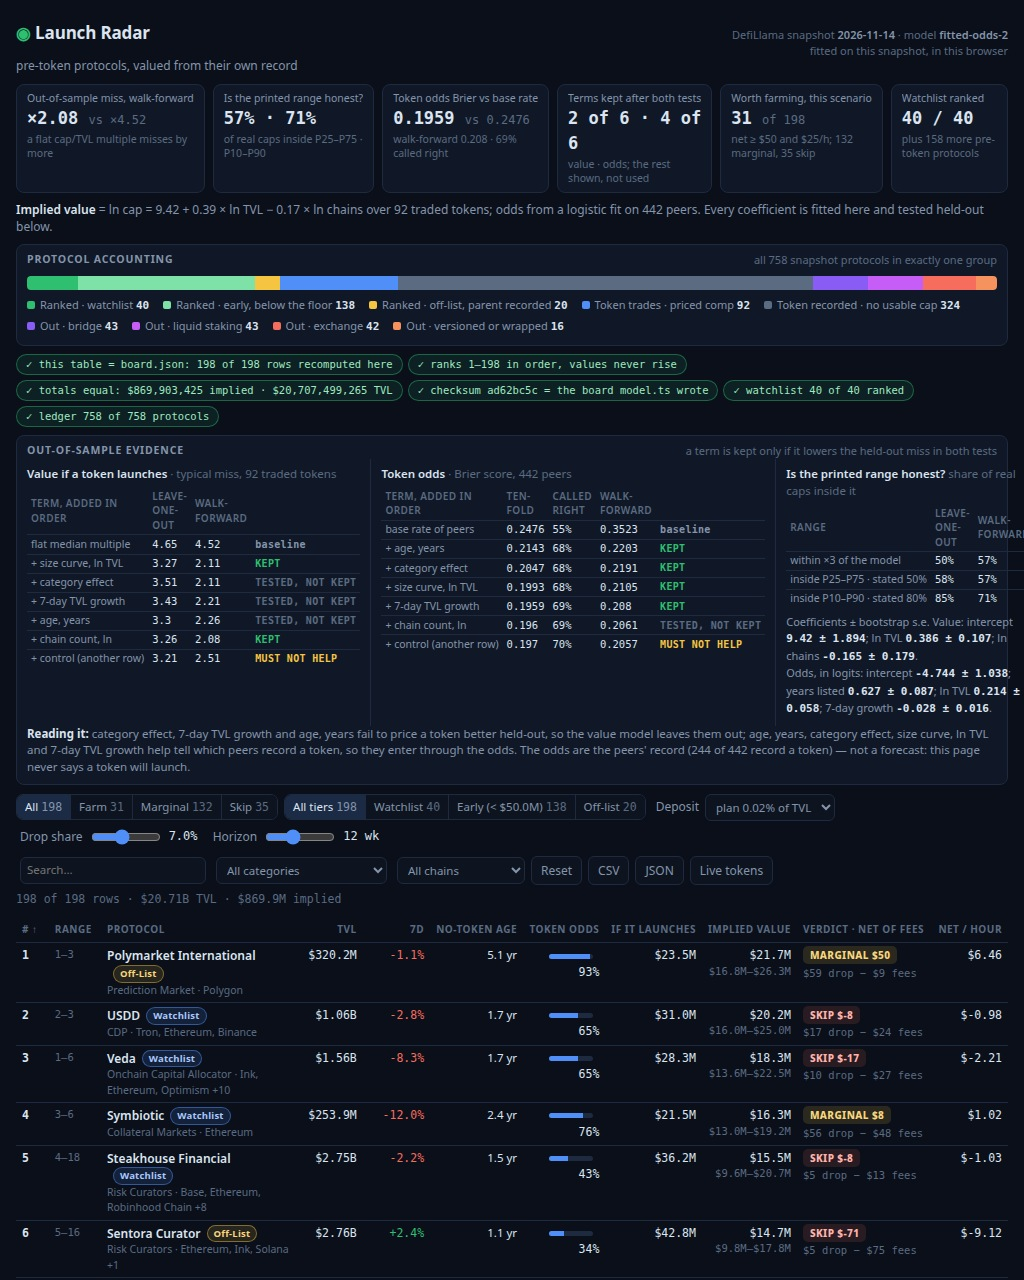
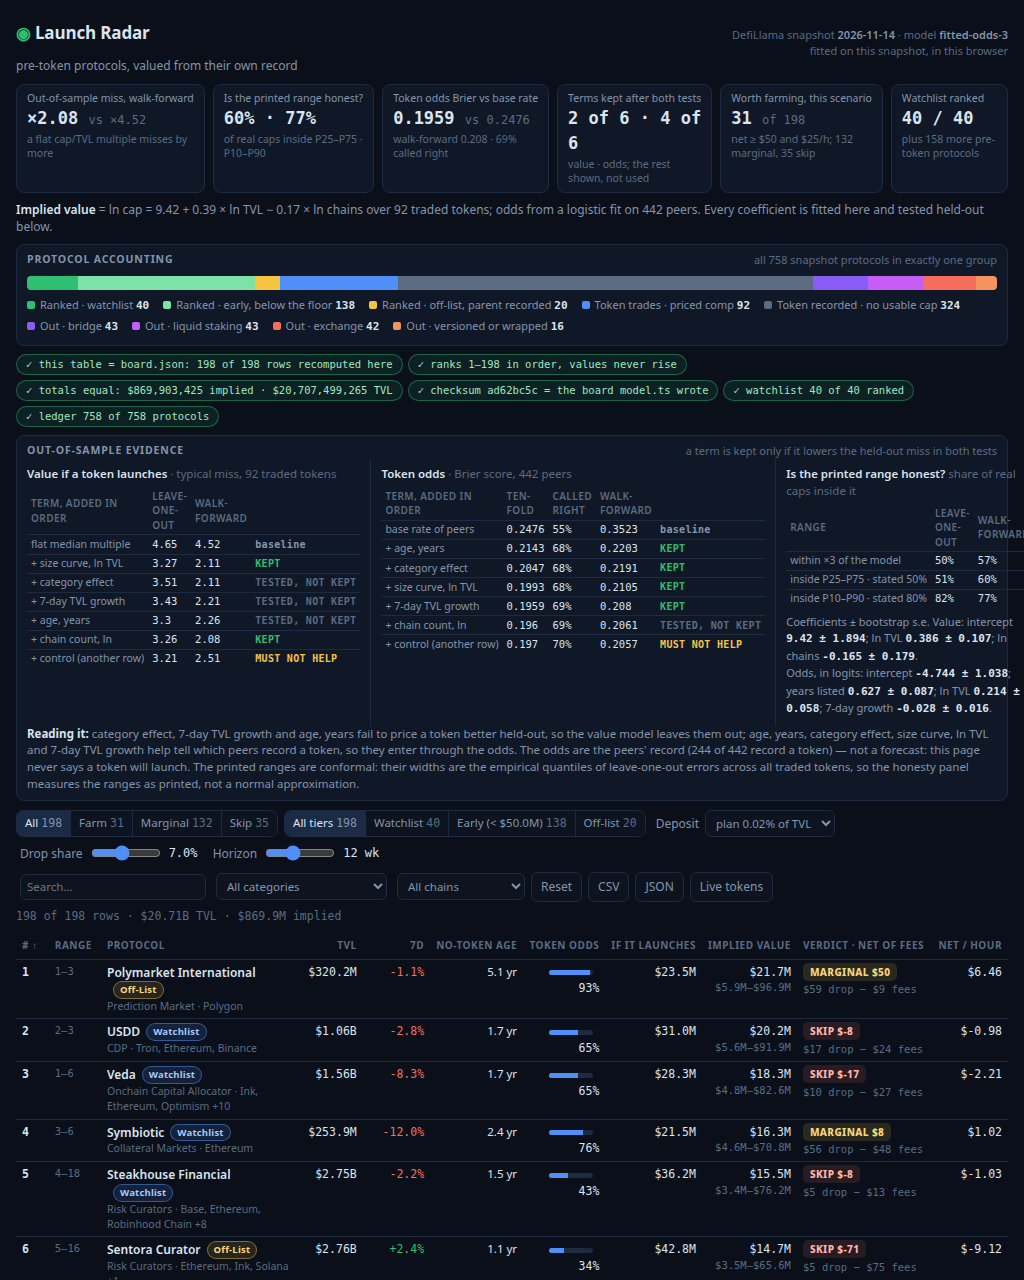
Conformal printed ranges: empirical LOO quantiles replace normal bands
Printed P25-P75 ranges were bootstrap-only, so the honesty panel measured
normal bands, not what readers see: 85% LOO but 71% walk-forward at the
stated 80%. Ranges are now split-conformal: bootstrap spread widened by the
empirical quantiles of leave-one-out errors across all 92 traded tokens
(q10 -2.50, q25 -1.04, q75 +1.30, q90 +2.34), and the honesty panel measures
the printed ranges themselves. Honesty 57%/71% -> 60%/77% walk-forward
(rank 1 reads 57%/76%); point predictions, ranks, verdicts, checksum all
identical. MODEL_VERSION fitted-odds-3. Screenshots retaken.

diff --git a/lib/model.ts b/lib/model.ts
@@ -47,7 +47,7 @@ export interface Snapshot {
 }
 
 /** The model's version label: the dashboard names it and board.json carries it. */
-export const MODEL_VERSION = 'fitted-odds-2';
+export const MODEL_VERSION = 'fitted-odds-3';
 
 /** Farm-plan economics at the dashboard's default controls. The page ships these and recomputes
  *  every verdict live when a reader moves a control; the board's printed verdicts use them too. */
@@ -863,6 +863,7 @@ export interface RadarData {
   model: {
     value: { use_size: boolean; flat: number; beta: number[]; terms: ValueTerm[]; cat_effects: Record<string, number>; median_years: number };
     odds: { beta: number[]; terms: OddsTerm[]; cat_offsets: Record<string, number>; median_years: number };
+    conformal: { q10: number; q25: number; q75: number; q90: number; cal_n: number };
   };
   watchlist_size: number;
   board_size: number;
@@ -937,10 +938,28 @@ export function buildRadar(snapshot: Snapshot): { board: BoardRow[]; radar: Rada
   const wfMiss = missFactor(wfTest.map((r) => r.lnCap), wfTest.map((r) => vPredict(wfFit, r)));
   const wfResidSd = sd(datedV.slice(0, vHalf).map((r) => r.lnCap - vPredict(wfFit, r)));
   const cover = (errs: number[], s: number, z: number): number => Math.round(100 * mean(errs.map((e) => (Math.abs(e) <= z * s ? 1 : 0))));
+  // Conformal calibration of the printed ranges. The widths come from the
+  // empirical quantiles of the leave-one-out residuals across all traded
+  // tokens — each residual is out-of-sample for its own token (its model never
+  // saw it), so this is cross-conformal, not a fit to the errors it measures.
+  // The normal bands the previous version used covered 85% leave-one-out but
+  // only 71% walk-forward at the stated 80%: the errors are not normal, and
+  // the earlier-listed half alone is too easy to calibrate on (it gave 63%).
+  const calSorted = [...looErr].sort((a, b) => a - b);
+  // Finite-sample conformal quantile: the ceil(level * (n + 1))-th smallest residual.
+  const confQ = (level: number): number => {
+    const k = Math.min(calSorted.length, Math.max(1, Math.ceil(level * (calSorted.length + 1))));
+    return calSorted[k - 1]!;
+  };
+  const q10 = confQ(0.10);
+  const q25 = confQ(0.25);
+  const q75 = confQ(0.75);
+  const q90 = confQ(0.90);
+  const inBand = (errs: number[], lo: number, hi: number): number => Math.round(100 * mean(errs.map((e) => (e >= lo && e <= hi ? 1 : 0))));
   const honesty = [
     { label: 'within ×3 of the model', stated: '—', loo: Math.round(100 * mean(looErr.map((e) => (Math.abs(e) <= Math.log(3) ? 1 : 0)))), wf: Math.round(100 * mean(wfErr.map((e) => (Math.abs(e) <= Math.log(3) ? 1 : 0)))) },
-    { label: 'inside P25–P75', stated: '50%', loo: cover(looErr, residSd, 0.674), wf: cover(wfErr, wfResidSd, 0.674) },
-    { label: 'inside P10–P90', stated: '80%', loo: cover(looErr, residSd, 1.282), wf: cover(wfErr, wfResidSd, 1.282) },
+    { label: 'inside P25–P75', stated: '50%', loo: inBand(looErr, q25, q75), wf: inBand(wfErr, q25, q75) },
+    { label: 'inside P10–P90', stated: '80%', loo: inBand(looErr, q10, q90), wf: inBand(wfErr, q10, q90) },
   ];
   // Final odds validation: ten-fold out-of-fold Brier for the shipped procedure.
   const oof = new Array(oRows.length).fill(0);
@@ -1013,8 +1032,11 @@ export function buildRadar(snapshot: Snapshot): { board: BoardRow[]; radar: Rada
     const model = {
       value_if_usd: Math.round(s.vif),
       odds: round4(s.odds),
-      p25_usd: Math.round(quantile(imps, 0.25)),
-      p75_usd: Math.round(quantile(imps, 0.75)),
+      // Printed range: the bootstrap spread (parameter uncertainty) widened by
+      // the split-conformal residual quantiles (outcome noise), so the range a
+      // reader sees is the range the honesty panel actually measures.
+      p25_usd: Math.round(quantile(imps, 0.25) * Math.exp(q25)),
+      p75_usd: Math.round(quantile(imps, 0.75) * Math.exp(q75)),
       rank_lo: Math.round(quantile(ranks, 0.25)),
       rank_hi: Math.round(quantile(ranks, 0.75)),
       deposit_usd: econ.deposit,
@@ -1077,7 +1099,8 @@ export function buildRadar(snapshot: Snapshot): { board: BoardRow[]; radar: Rada
   const reading =
     `Reading it: ${droppedValue.length ? `${joinList(droppedValue)} fail to price a token better held-out, so the value model leaves them out; ` : ''}` +
     `${keptOddsLabels.length ? `${joinList(keptOddsLabels)} help tell which peers record a token, so they enter through the odds. ` : ''}` +
-    `The odds are the peers' record (${peersToken} of ${oRows.length} record a token) — not a forecast: this page never says a token will launch.`;
+    `The odds are the peers' record (${peersToken} of ${oRows.length} record a token) — not a forecast: this page never says a token will launch. ` +
+    `The printed ranges are conformal: their widths are the empirical quantiles of leave-one-out errors across all traded tokens, so the honesty panel measures the ranges as printed, not a normal approximation.`;
 
   const live = liveRows(snapshot);
   const radar: RadarData = {
@@ -1127,6 +1150,7 @@ export function buildRadar(snapshot: Snapshot): { board: BoardRow[]; radar: Rada
         beta: oFit.beta, terms: oLadder.kept.terms,
         cat_offsets: Object.fromEntries(oFit.catOffsets), median_years: oFit.medianYears,
       },
+      conformal: { q10: round4(q10), q25: round4(q25), q75: round4(q75), q90: round4(q90), cal_n: looErr.length },
     },
     watchlist_size: snapshot.watchlist.length,
     board_size: board.length,
